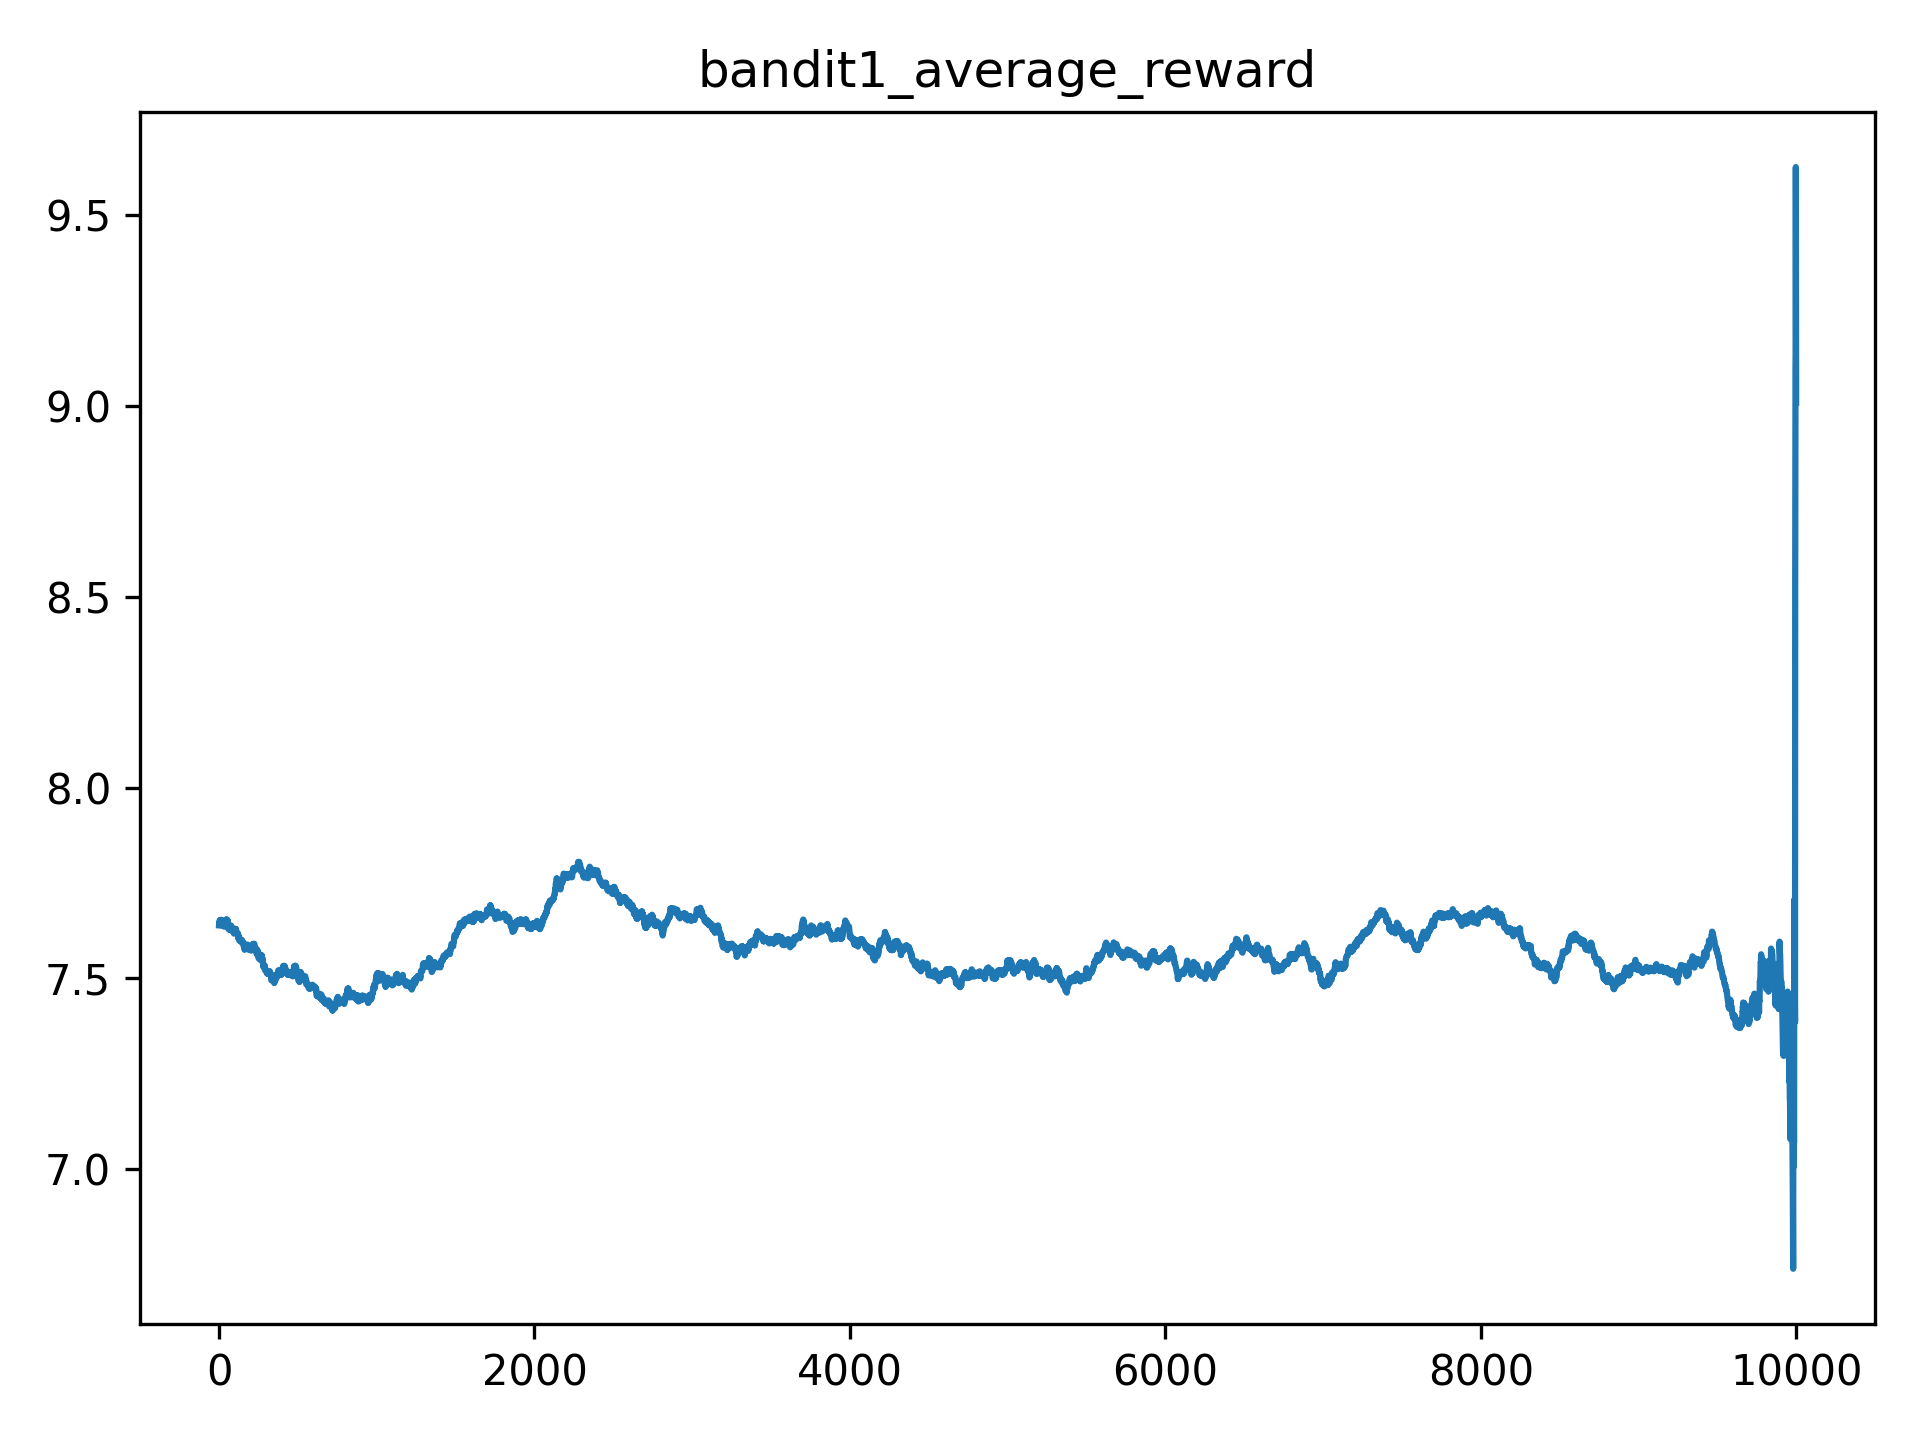
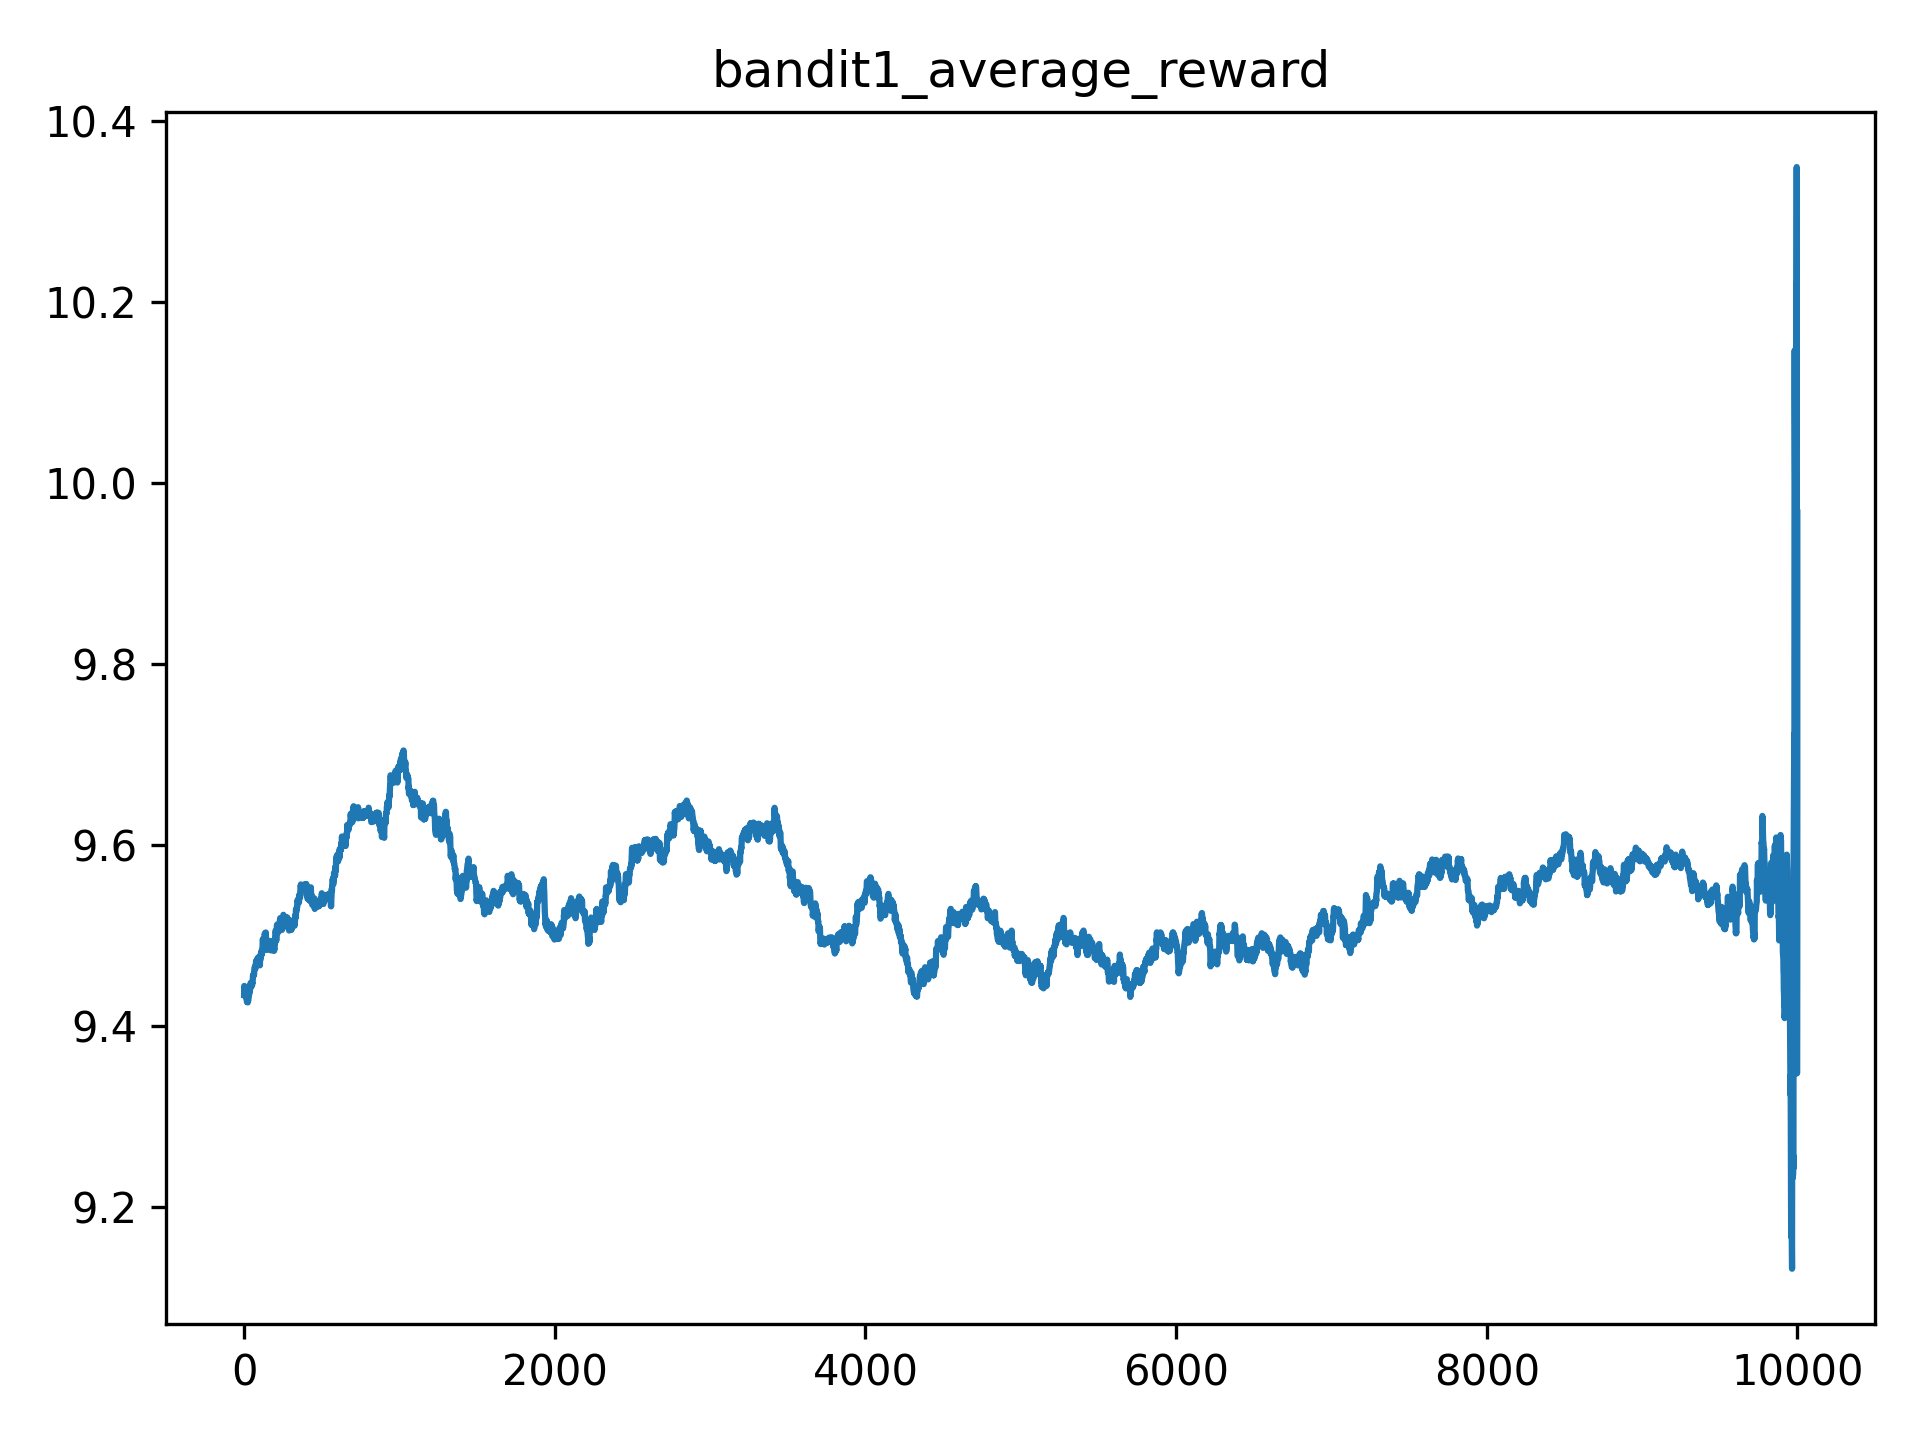
minor

diff --git a/src/CS6900/exercise_2_5.py b/src/CS6900/exercise_2_5.py
@@ -62,6 +62,12 @@ class Bandits:
         plt.title(self.name + "_Q_max")
         modules.easy_plots.save_fig(self.name + "_Q_max")
 
+    def get_Q_max(self):
+        Q_max_arr = np.zeros(n_steps)
+        for i in range(self.n_steps):
+            Q_max_arr[i] = np.max(self.Q[:, i])
+        return Q_max_arr
+
 
 
 # Unused for now
@@ -69,6 +75,8 @@ class Levers():
     def __init__(self, mu, sigma):
         self.mu = mu # Mean
         self.sigma = sigma # Std. Dev.
+
+
 
 def plot_levers(mu_list, sigma_list):
     num_samps = 100
@@ -87,11 +95,28 @@ def get_reward(mu_list, sigma_list):
         reward[i] = np.random.normal(mu_list[i], sigma_list[i], 1)
     return reward
 
-def plot_bandits(list_of_bandits):
+def plot_bandits(list_of_bandits, mu_list):
     print("plot_bandits")
     plt.figure()
     for i in list_of_bandits:
-        plt.plot(i)
+        plt.plot(i.get_avg_reward())
+    plt.title("Bandits average reward")
+    modules.easy_plots.save_fig("bandits_avg_reward")
+
+    plt.figure()
+    for i in list_of_bandits:
+        plt.plot(i.get_Q_max(), label=i.name)
+    plt.legend()
+    plt.title("Bandits Q max")
+    modules.easy_plots.save_fig("bandits_Q_max")
+
+    # This is wrong I think, optimal action would be how often it pulls perfect lever
+    # plt.figure()
+    # for i in list_of_bandits:
+    #     plt.plot(i.get_Q_max()/np.max(mu_list)*100, label=i.name)
+    # plt.legend()
+    # plt.title("Bandits % optimal action")
+    # modules.easy_plots.save_fig("bandits_percent_optimal")
 
 """
 We have two RL agents standing in front of several different levers. The
@@ -121,7 +146,9 @@ plot_levers(lever_mu, lever_sigma) # Visualize levers at start
 
 
 for i in range(1, n_steps):
+
     reward_array = get_reward(lever_mu, lever_sigma) # Same reward this step
+
     B1_A = bandit1.sample_average_choose_action()
     bandit1.rewards_received[i] = reward_array[B1_A]
     bandit1.N[:, i] = bandit1.N[:, i-1]
@@ -147,6 +174,7 @@ bandit1.plot_Q_max()
 bandit2.plot_reward()
 bandit2.plot_avg_reward()
 bandit2.plot_Q_max()
+plot_bandits([bandit1, bandit2], lever_mu)
 plt.show()
 # if __name__ == '__main__':
 #     main()
